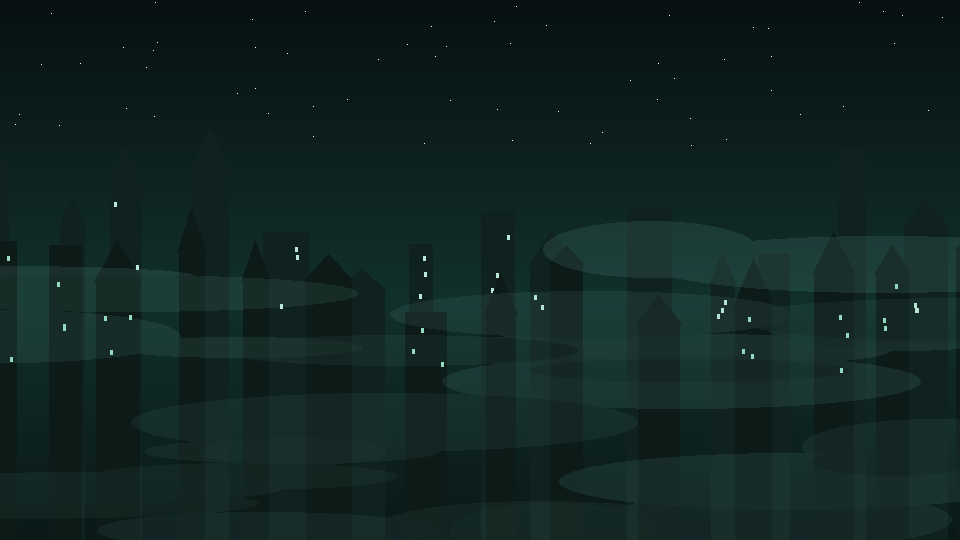
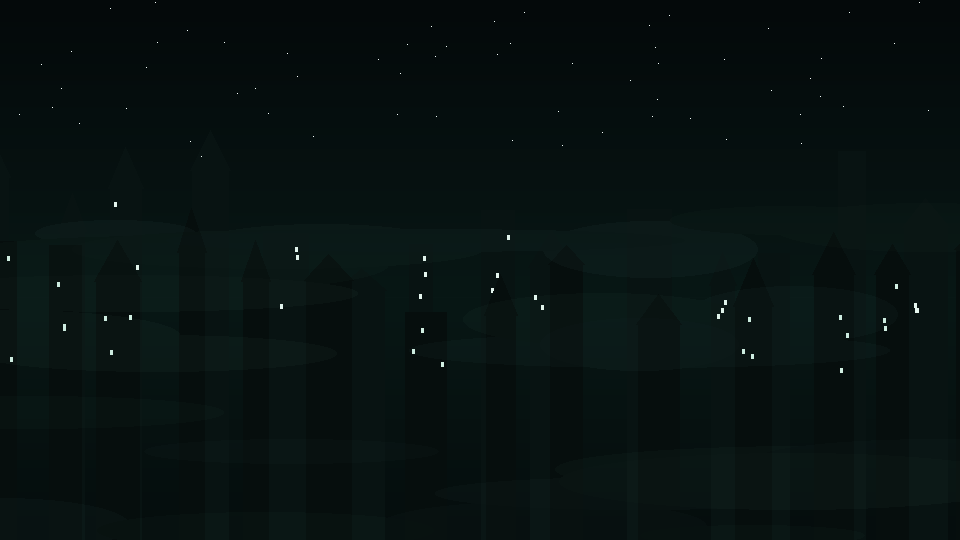
Fundo do castelo mais escuro para destacar a ilha
Claude-Session: https://claude.ai/code/session_015Yk1ZjB5NRVm9muLJBgwin

diff --git a/scripts/iso_castle.py b/scripts/iso_castle.py
@@ -679,7 +679,7 @@ def backdrop(path):
     img = Image.new("RGBA", (W, H))
     px = img.load()
     rnd = random.Random("backdrop")
-    top, mid, bot = rgb("#071012"), rgb("#12302c"), rgb("#0a1818")
+    top, mid, bot = rgb("#04090a"), rgb("#081715"), rgb("#050d0d")
     for y in range(H):
         t = y / H
         a, b, k = (top, mid, t / 0.55) if t < 0.55 else (mid, bot, (t - 0.55) / 0.45)
@@ -688,7 +688,7 @@ def backdrop(path):
             px[x, y] = col
     d = ImageDraw.Draw(img)
     # Distant spires and broken towers (two layers).
-    for layer, (col, base, hmax) in enumerate(((rgb("#10221f"), 330, 190), (rgb("#0c1a18"), 380, 140))):
+    for layer, (col, base, hmax) in enumerate(((rgb("#081312"), 330, 190), (rgb("#060e0d"), 380, 140))):
         x = -20
         while x < W:
             w = rnd.randrange(18, 46)
@@ -700,7 +700,7 @@ def backdrop(path):
                 for k in range(3):
                     wx = x + 4 + rnd.randrange(max(1, w - 8))
                     wy = base - h + 10 + rnd.randrange(max(1, h - 20))
-                    d.rectangle([wx, wy, wx + 2, wy + 4], fill=rgb("#3fbf8a", 140 if layer else 90))
+                    d.rectangle([wx, wy, wx + 2, wy + 4], fill=rgb("#3fbf8a", 60 if layer else 35))
             x += w + rnd.randrange(10, 60)
     # Fog bands.
     fog = Image.new("RGBA", (W, H), (0, 0, 0, 0))
@@ -708,12 +708,12 @@ def backdrop(path):
     for _ in range(26):
         cx, cy = rnd.randrange(W), rnd.randrange(220, H)
         rx, ry = rnd.randrange(80, 260), rnd.randrange(10, 30)
-        fd.ellipse([cx - rx, cy - ry, cx + rx, cy + ry], fill=(120, 190, 175, rnd.randrange(14, 34)))
+        fd.ellipse([cx - rx, cy - ry, cx + rx, cy + ry], fill=(90, 150, 138, rnd.randrange(5, 13)))
     img = Image.alpha_composite(img, fog)
     # Faint stars.
     for _ in range(60):
         x, y = rnd.randrange(W), rnd.randrange(160)
-        img.putpixel((x, y), (200, 240, 230, rnd.randrange(60, 160)))
+        img.putpixel((x, y), (200, 240, 230, rnd.randrange(30, 90)))
     img.save(path)
 
 
